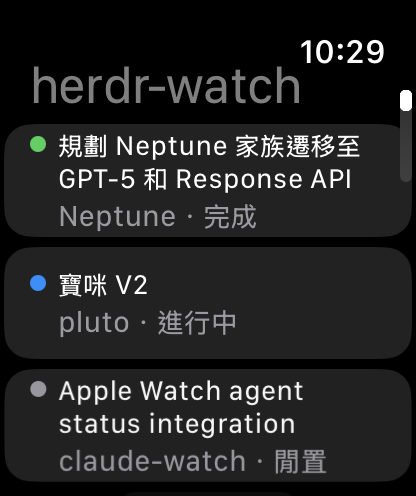
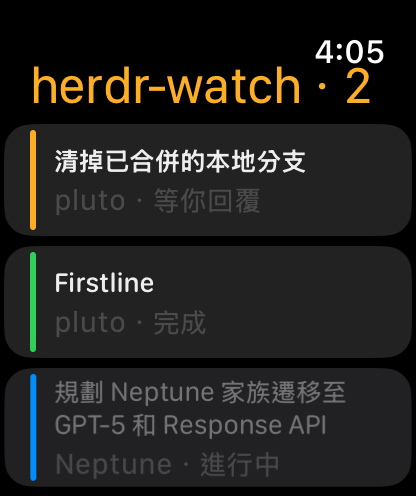
new images

diff --git a/README.md b/README.md
@@ -4,8 +4,11 @@ Agent status from [herdr](https://herdr.dev) on an Apple Watch.
 
 <p>
   <img src="docs/wrist.jpg" alt="The roster on a Series 11: three agents, two finished and one idle" width="330">
-  <img src="docs/roster.png" alt="The same roster, screenshotted from the watch" width="240">
+  <img src="docs/roster.png" alt="The roster as it looks now: a coloured rule down each row, the count of agents waiting in the title" width="240">
 </p>
+
+The photo is a Series 11. Every screenshot here is a watchOS simulator running the
+fixtures in `Sample.swift` — invented agents, real layout.
 
 ## Install
 
@@ -229,6 +232,15 @@ absolute path in instead — systemd does not read your shell profile.
 
 ## Answering from the wrist
 
+<p>
+  <img src="docs/detail.png" alt="An agent's page: status, a 回覆… row, and the cleaned screen below it" width="240">
+  <img src="docs/answer.png" alt="The reply page: the question, then one button per option" width="240">
+</p>
+
+Reading and answering are two pages, so scrolling through what an agent has been
+doing cannot approve anything. The buttons carry the hook's own labels, and Esc is
+always the last row.
+
 Verified end to end on 2026-08-12: an `AskUserQuestion` with three options reached
 the watch with its labels intact, a tap sent `3` to the pane, and the session that
 asked received the third option. Eighteen seconds, wrist to terminal.
@@ -249,6 +261,10 @@ next. Worth keeping if you touch this: without the check, a stale `1` lands in t
 agent's input box and submits a turn.
 
 ## Dictating from the wrist
+
+<p>
+  <img src="docs/speak.png" alt="The dictation page: a text field holding a spoken sentence, and 送出 below it" width="240">
+</p>
 
 A blocked pane wants one of a numbered set; an idle one wants a sentence. Those
 are different inputs, so they have separate pages and never appear together —
